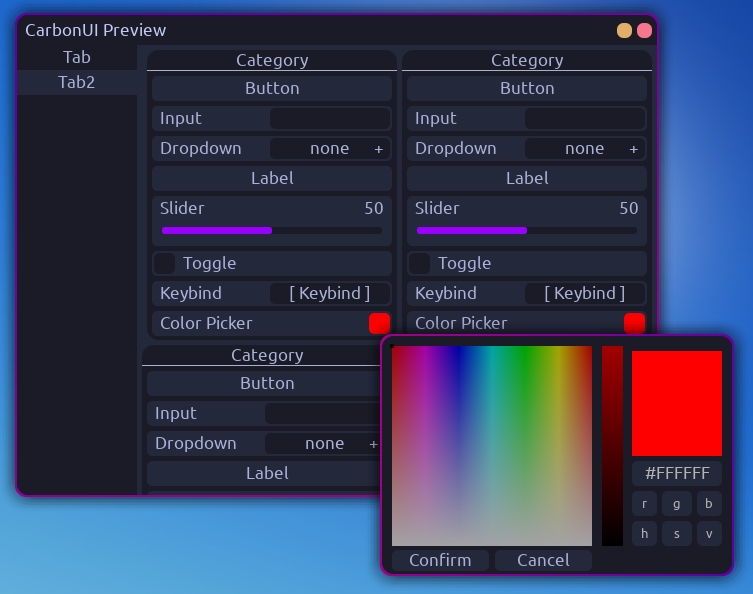
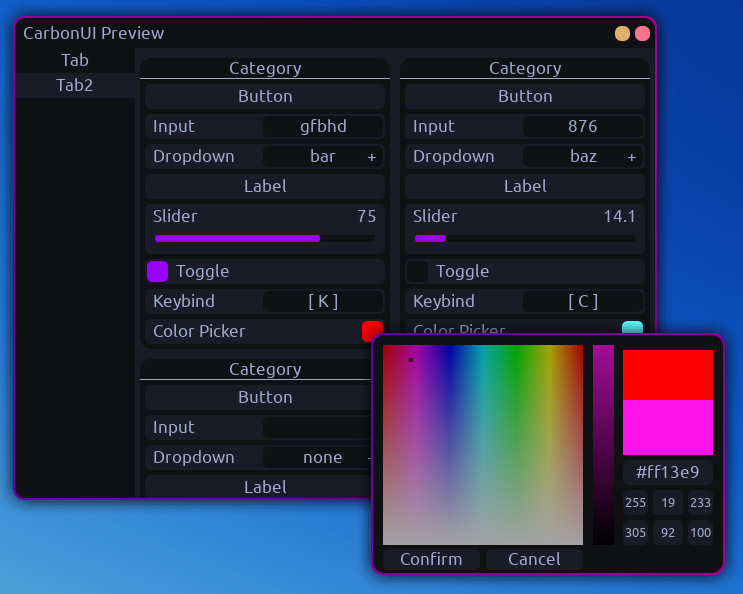
Update outdated preview; fix example code

Changed region(s): [[0.0, 0.0, 1.0, 1.0]]

diff --git a/README.md b/README.md
@@ -30,7 +30,7 @@ function createTestCategory(tab)
     carbon.addLabel(category, "Label")
     carbon.addSlider(category, "Slider", 0, 100, 50, 1, function()end)
     carbon.addToggle(category, "Toggle", function()end)
-    carbon.addKeybind(category, "Keybind", function()end)
+    carbon.addKeybind(category, "Keybind", false, function()end)
     carbon.addRGBColorPicker(category, "Color Picker", function()end)
 end
 
